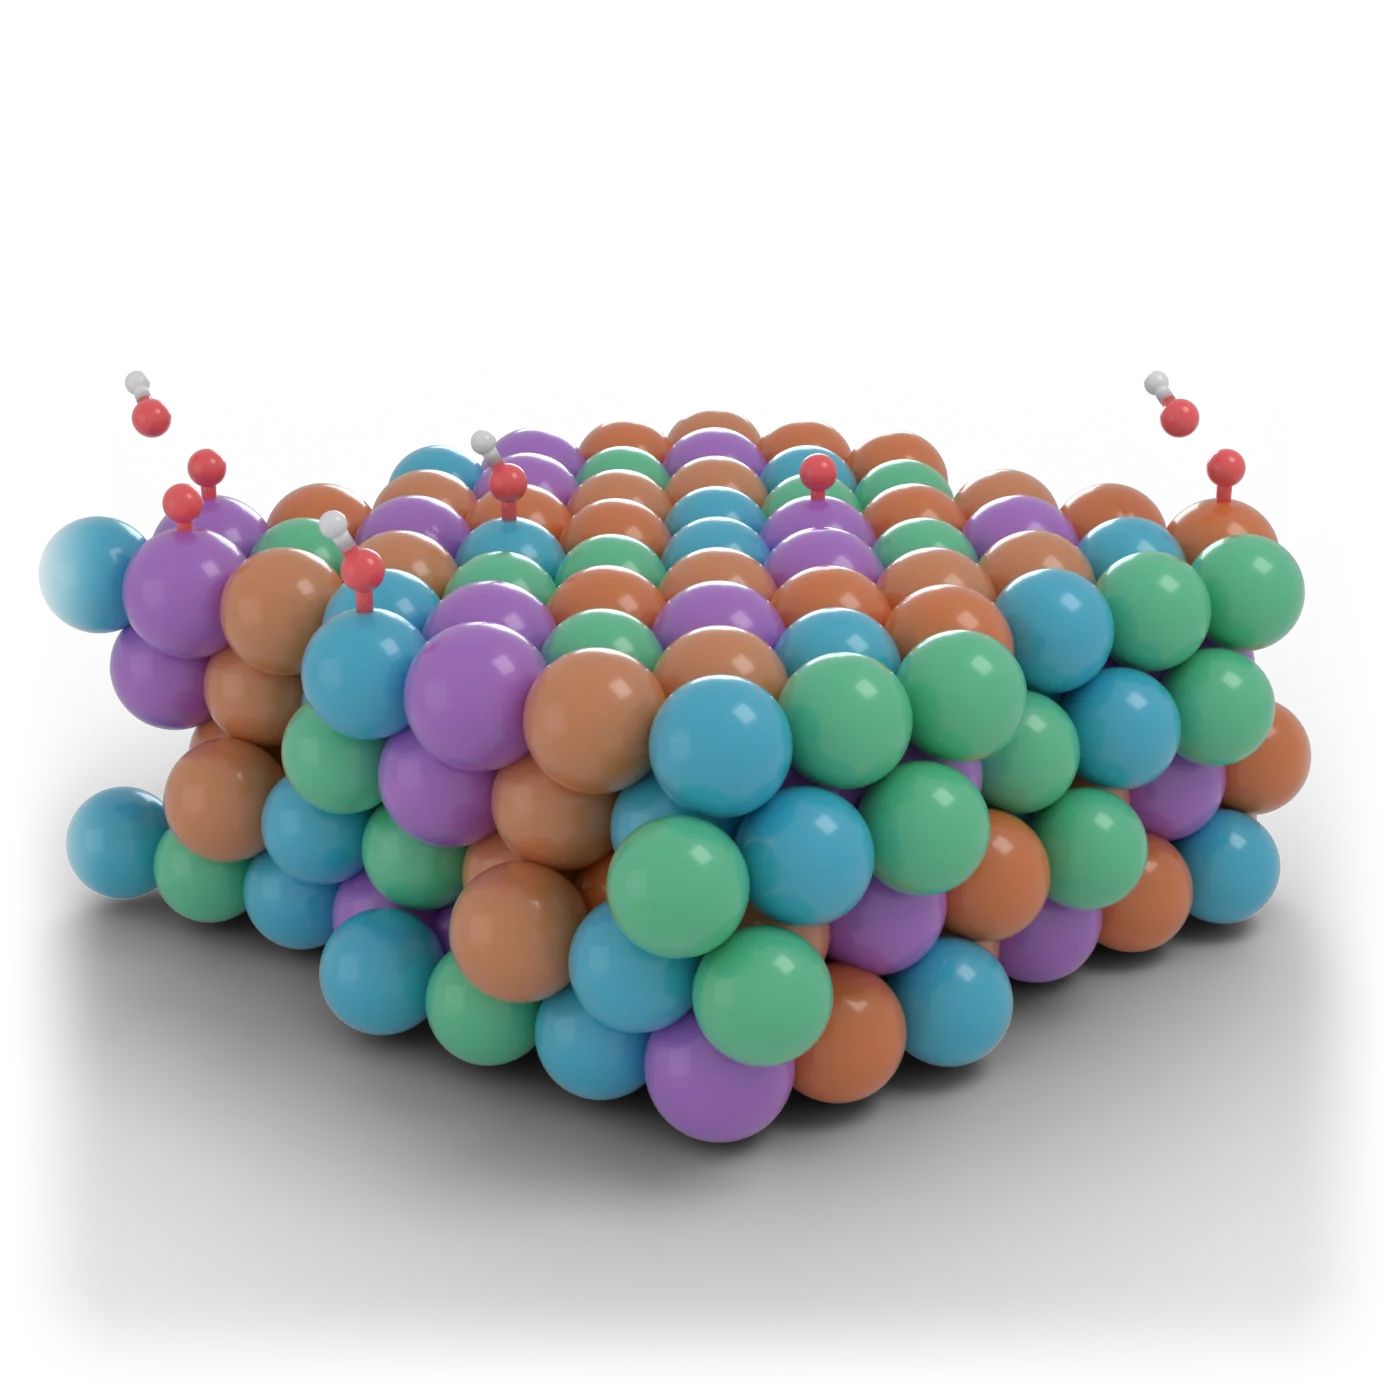
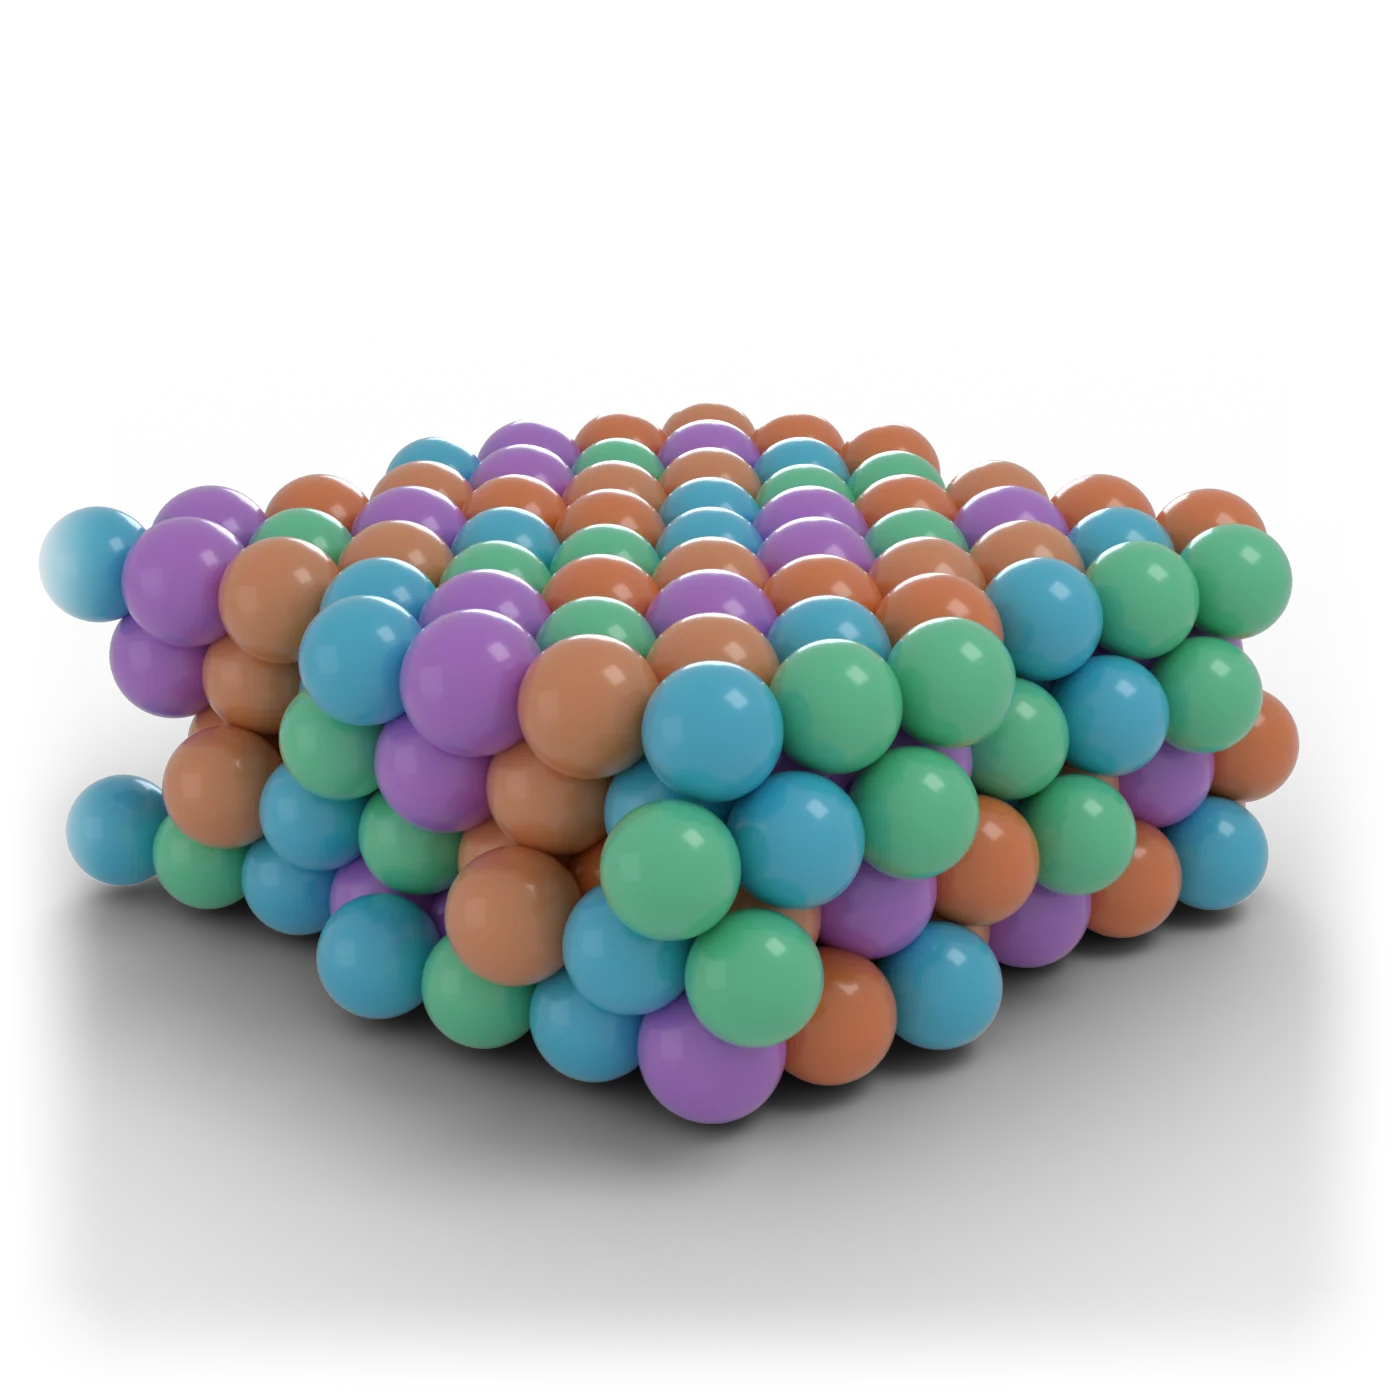
refactor(company): plainer copy, school marquee under hero, real HEA slab renders

diff --git a/pages/company.js b/pages/company.js
@@ -173,7 +173,7 @@ function Hero3D() {
     <div className={'zs-hero3d' + (ready ? ' on' : '')}>
       <img className="zs-hero-fallback" src="/company/img/hero.webp" alt="" />
       <div ref={ref} className="zs-hero-canvas" />
-      <span className="zs-hero-hint">拖动旋转 · 单原子催化位点</span>
+      <span className="zs-hero-hint">可拖动 · Co–N₄ 位点与差分电荷密度</span>
     </div>
   )
 }
@@ -213,23 +213,22 @@ function Contact() {
   }
   return (
     <aside className="zs-float" aria-label="联系方式">
-      <div className="zs-float-head"><span className="zs-dot" />在线接单</div>
-      <p className="zs-float-t">免费评估 · 透明报价</p>
+      <div className="zs-float-head"><span className="zs-dot" />计算咨询</div>
+      <p className="zs-float-t">评估不收费，按计算量报价</p>
       <button className="zs-float-mail" onClick={copy} title="点击复制">
         <span>{co.email}</span>
         <em>{copied ? '已复制' : '复制'}</em>
       </button>
       <a className="zs-float-btn" href={'mailto:' + co.email + '?subject=' + encodeURIComponent('计算需求咨询')}>发邮件咨询</a>
-      <p className="zs-float-s">发来体系与需求，一般当天回复</p>
+      <p className="zs-float-s">点邮箱可复制</p>
     </aside>
   )
 }
 
-const Title = ({ no, zh, en }) => (
+const Title = ({ no, id }) => (
   <div className="zs-title reveal">
-    <span className="zs-no">{no}</span>
-    <h2>{zh}</h2>
-    <span className="zs-en">{en}</span>
+    <span className="zs-no">{no} · {co.sections[id][0]}</span>
+    <h2>{co.sections[id][1]}</h2>
   </div>
 )
 
@@ -247,7 +246,7 @@ export default function Company() {
   return (
     <div className="zs-root">
       <Head>
-        <title>{co.name} · 第一性原理与分子动力学计算服务</title>
+        <title>{co.short} · 第一性原理与分子动力学计算服务</title>
         <meta name="description" content="北京智算分子科技有限公司提供 DFT、从头算分子动力学、机器学习势函数计算服务，覆盖催化、电子结构、电池材料与分子计算。清华博士亲自计算，可开发票。" />
         <meta name="viewport" content="width=device-width, initial-scale=1" />
         <link rel="icon" href="/company/mark.svg" />
@@ -260,9 +259,9 @@ export default function Company() {
         </a>
         <nav>
           <a href="#services">计算服务</a>
-          <a href="#why">我们的优势</a>
+          <a href="#why">特点</a>
           <a href="#cases">案例</a>
-          <a href="#about">关于</a>
+          <a href="#about">创始人</a>
           <a className="zs-nav-cta" href={'mailto:' + co.email}>联系我们</a>
         </nav>
       </header>
@@ -280,8 +279,8 @@ export default function Company() {
               {co.hero.tags.map((t, i) => <span key={t} className="zs-tag"><i>0{i + 1}</i>{t}</span>)}
             </div>
             <div className="zs-hero-cta">
-              <a className="zs-btn" href="#services">查看可算内容</a>
-              <a className="zs-btn ghost" href={'mailto:' + co.email}>免费评估需求</a>
+              <a className="zs-btn" href="#services">能算什么</a>
+              <a className="zs-btn ghost" href={'mailto:' + co.email}>发邮件咨询</a>
             </div>
           </div>
           <Hero3D />
@@ -296,8 +295,22 @@ export default function Company() {
         </div>
       </section>
 
+      <section className="zs-strip" id="schools">
+        <p className="zs-strip-t">{co.schoolsTitle}</p>
+        <div className="zs-marquee">
+          <div className="zs-track">
+            {[0, 1].map(k => co.schools.map(x => (
+              <div key={k + x.name} className="zs-school" aria-hidden={k === 1}>
+                <img src={'/company/logos/' + x.logo} alt={k ? '' : x.name} />
+                <span>{x.name}</span>
+              </div>
+            )))}
+          </div>
+        </div>
+      </section>
+
       <section className="zs-sec" id="services">
-        <Title no="01" zh="可以计算的内容" en="What we compute" />
+        <Title no="01" id="services" />
         <div className="zs-svc">
           {co.services.map((s, i) => (
             <article key={s.key} className="zs-card reveal" style={{ transitionDelay: (i % 3) * 80 + 'ms' }}>
@@ -313,7 +326,7 @@ export default function Company() {
       </section>
 
       <section className="zs-sec zs-why-wrap" id="why">
-        <Title no="02" zh="为什么选择我们" en="Why us" />
+        <Title no="02" id="why" />
         <div className="zs-why">
           {co.advantages.map((a, i) => (
             <div key={a.no} className={'zs-why-c reveal' + (i < 3 ? ' key' : '')} style={{ transitionDelay: i * 80 + 'ms' }}>
@@ -326,7 +339,7 @@ export default function Company() {
       </section>
 
       <section className="zs-sec" id="cases">
-        <Title no="03" zh="计算案例" en="Selected work" />
+        <Title no="03" id="cases" />
         <div className="zs-cases">
           {co.cases.map((c, i) => (
             <figure key={c.title} className={'zs-case reveal c' + i}>
@@ -337,21 +350,8 @@ export default function Company() {
         </div>
       </section>
 
-      <section className="zs-sec">
-        <Title no="04" zh="服务过的高校与院所" en="Trusted by researchers from" />
-        <div className="zs-schools reveal">
-          {co.schools.map(s => (
-            <div key={s.name} className="zs-school">
-              <img src={'/company/logos/' + s.logo} alt={s.name} />
-              <span>{s.name}</span>
-            </div>
-          ))}
-        </div>
-        <p className="zs-note">以上为委托过计算服务的部分单位，按单位列出，不涉及具体课题信息。</p>
-      </section>
-
       <section className="zs-sec" id="about">
-        <Title no="05" zh="关于创始人" en="Founder" />
+        <Title no="04" id="about" />
         <div className="zs-founder reveal">
           <div className="zs-photo"><img src={co.founder.photo} alt={co.founder.name} /></div>
           <div>
@@ -363,7 +363,7 @@ export default function Company() {
       </section>
 
       <section className="zs-sec">
-        <Title no="06" zh="合作流程" en="How it works" />
+        <Title no="05" id="steps" />
         <ol className="zs-steps">
           {co.steps.map((s, i) => (
             <li key={s.title} className="reveal" style={{ transitionDelay: i * 90 + 'ms' }}>
@@ -375,8 +375,8 @@ export default function Company() {
         </ol>
         <div className="zs-cta reveal">
           <div>
-            <h3>把你的体系发过来，先免费评估</h3>
-            <p>说明材料体系、想要的性质和参考文献，我们会给出计算方案、周期和报价。</p>
+            <h3>{co.cta.title}</h3>
+            <p>{co.cta.text}</p>
           </div>
           <a className="zs-btn" href={'mailto:' + co.email + '?subject=' + encodeURIComponent('计算需求咨询')}>{co.email}</a>
         </div>
@@ -430,7 +430,7 @@ const CSS = `
         .zs-nav nav a:hover { color: var(--ink); }
         .zs-nav-cta { padding: 7px 16px; border-radius: 999px; background: var(--ink); color: #fff !important; }
 
-        .zs-hero { position: relative; padding: 120px clamp(16px, 5vw, 72px) 40px; overflow: hidden; }
+        .zs-hero { position: relative; padding: 100px clamp(16px, 5vw, 72px) 40px; overflow: hidden; }
         .zs-grid-bg { position: absolute; inset: 0; background-image: radial-gradient(rgba(47,91,255,.16) 1px, transparent 1.2px);
           background-size: 22px 22px; mask-image: radial-gradient(ellipse 70% 60% at 65% 40%, #000 20%, transparent 75%);
           -webkit-mask-image: radial-gradient(ellipse 70% 60% at 65% 40%, #000 20%, transparent 75%); pointer-events: none; }
@@ -455,7 +455,7 @@ const CSS = `
         .zs-btn:hover { transform: translateY(-2px); box-shadow: 0 16px 36px -12px rgba(47,91,255,.7); }
         .zs-btn.ghost { background: #fff; color: var(--ink) !important; border: 1px solid var(--line); box-shadow: none; }
 
-        .zs-hero3d { position: relative; aspect-ratio: 1 / 1; max-height: 620px; width: 100%; }
+        .zs-hero3d { position: relative; aspect-ratio: 1 / 1; max-height: 560px; width: 100%; margin: 0 auto; }
         .zs-hero-canvas, .zs-hero-fallback { position: absolute; inset: 0; width: 100%; height: 100%; }
         .zs-hero-fallback { object-fit: contain; transition: opacity .8s; }
         .zs-hero-canvas { opacity: 0; transition: opacity .8s; cursor: grab; }
@@ -473,9 +473,9 @@ const CSS = `
         .zs-stat > span { font-size: 14px; color: var(--sub); }
 
         .zs-sec { max-width: 1240px; margin: 0 auto; padding: 110px clamp(16px, 5vw, 72px) 0; box-sizing: content-box; }
-        .zs-title { display: flex; align-items: baseline; gap: 16px; margin-bottom: 44px; flex-wrap: wrap; }
-        .zs-no { font-size: 13px; color: var(--b1); padding: 3px 9px; border: 1px solid rgba(47,91,255,.3); border-radius: 6px; }
-        .zs-title h2 { font-size: clamp(26px, 3vw, 36px); font-weight: 700; }
+        .zs-title { margin-bottom: 44px; max-width: 760px; }
+        .zs-no { display: inline-block; font-size: 12.5px; color: var(--b1); margin-bottom: 14px; }
+        .zs-title h2 { font-size: clamp(24px, 2.8vw, 36px); font-weight: 700; line-height: 1.3; letter-spacing: -.005em; }
         .zs-en { font-size: 13px; color: var(--mute); text-transform: uppercase; }
 
         .zs-svc { display: grid; grid-template-columns: repeat(3, 1fr); gap: 22px; }
@@ -515,6 +515,13 @@ const CSS = `
         .zs-case figcaption span { font-size: 11.5px; color: var(--b1); }
         .zs-case figcaption b { font-size: 17px; }
 
+        .zs-strip { padding: 64px 0 0; }
+        .zs-strip-t { text-align: center; font-size: 13.5px; color: var(--mute); margin-bottom: 22px !important; }
+        .zs-marquee { overflow: hidden; mask-image: linear-gradient(90deg, transparent, #000 10%, #000 90%, transparent); -webkit-mask-image: linear-gradient(90deg, transparent, #000 10%, #000 90%, transparent); }
+        .zs-track { display: flex; gap: 14px; width: max-content; animation: zsScroll 48s linear infinite; }
+        .zs-marquee:hover .zs-track { animation-play-state: paused; }
+        @keyframes zsScroll { to { transform: translateX(-50%); } }
+        .zs-track .zs-school { flex: none; width: 150px; }
         .zs-schools { display: grid; grid-template-columns: repeat(auto-fill, minmax(150px, 1fr)); gap: 14px; }
         .zs-school { display: flex; flex-direction: column; align-items: center; gap: 12px; padding: 22px 10px 16px; border: 1px solid var(--line); border-radius: 16px; background: #fff; transition: all .3s; }
         .zs-school img { width: 64px; height: 64px; object-fit: contain; filter: grayscale(1); opacity: .62; transition: all .35s; }
@@ -573,7 +580,7 @@ const CSS = `
         .reveal { opacity: 0; transform: translateY(26px); }
         .reveal.in { opacity: 1; transform: none; transition: opacity .8s cubic-bezier(.2,.7,.2,1), transform .8s cubic-bezier(.2,.7,.2,1); }
         .zs-card.reveal.in:hover { transform: translateY(-6px); }
-        @media (prefers-reduced-motion: reduce) { .reveal { opacity: 1; transform: none; } .zs-orb { animation: none; } }
+        @media (prefers-reduced-motion: reduce) { .reveal { opacity: 1; transform: none; } .zs-orb, .zs-track { animation: none; } }
 
                 @media (max-width: 1600px) { .zs-float { width: 214px; padding: 14px; } .zs-float-s { display: none; } }
         @media (pointer: coarse) { .zs-hero-hint { display: none; } }
@@ -600,6 +607,7 @@ const CSS = `
           .zs-stat { padding: 18px; }
           .zs-stat b { font-size: 30px; }
           .zs-schools { grid-template-columns: repeat(3, 1fr); gap: 10px; }
+          .zs-track .zs-school { width: 118px; }
           .zs-school img { width: 48px; height: 48px; }
           .zs-school span { font-size: 11.5px; }
           .zs-steps { grid-template-columns: 1fr; }
